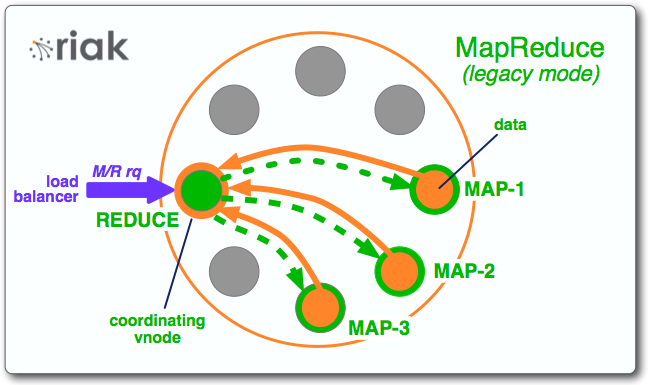
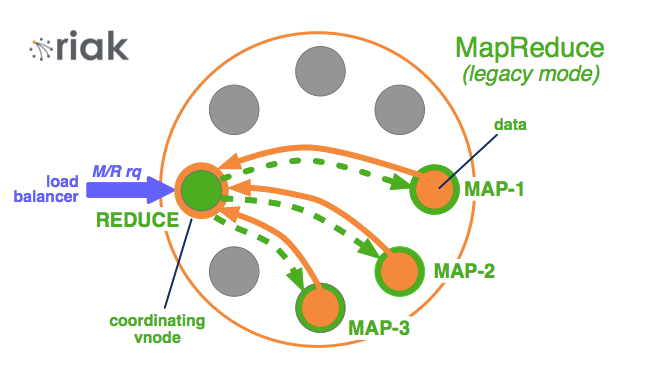
some layout tweaks, css, and cleaned images

diff --git a/source/css/common.css.scss b/source/css/common.css.scss
@@ -8,10 +8,11 @@ $textColor   : #515151;
 $linkBlue    : #2984a9;
 $orange      : #f99d33;
 $lightOrange : #fcc07f;
-   
+$darkOrange  : darken($orange, 15%);
 $subtleGray  : #eaeaea;
 $lightGreen  : #a7c7bf;
-$fadedGreen  : #6f8a86;
+$fadedGreen  : darken(saturate(#6f8a86, 3%), 8%);
+$darkGreen   : darken($lightGreen, 10%);
 
 /* =============================================================================
    Mixins
@@ -70,7 +71,7 @@ $fadedGreen  : #6f8a86;
 }
 
 .serif {
-  font-family : 'notica', serif;
+  font-family : 'noticia', serif;
   font-weight : normal;
 }
 
@@ -170,6 +171,65 @@ body {
 
 body {
   font-size : 90%;
+}
+
+ul {
+  list-style : square;
+  margin     : .5em 0
+}
+
+table {
+  @include boxShadow(0 1px 3px #999);
+  border : 5px solid #fff;
+}
+
+tr {
+  &:nth-child(even) {
+    background : #f1f1f1;
+  }
+  &:nth-child(odd) {
+    background : #dfdfdf;
+  }
+}
+
+th {
+  @include bgPattern('/images/layout/light-green-bg.jpg');
+  border-bottom : 1px solid $darkGreen;
+  text-align : left;
+  padding    : 5px 10px;
+  color      : $fadedGreen;
+}
+
+td {
+  padding        : 10px;
+  vertical-align : top;
+  border-right   : 1px solid #ccc;
+  
+  &:last-child {
+    border-right : 0;
+  }
+}
+
+pre {
+  margin : 0;
+}
+
+em {
+  @extend .serif-italic;
+  font-size : 95%;
+}
+
+blockquote {
+  @extend .serif-italic;
+  @include allCorners();
+  @include boxShadow(inset 0 2px 3px lighten($orange, 25%));
+  margin      : 2em 40px;
+  background  : lighten($orange, 30%);
+  border      : 1px solid lighten($orange, 15%);
+  padding     : 7px 15px;
+  font-style  : italic;
+  font-size   : 95%;
+  color       : $darkOrange;
 }
 
 #nav-container {
@@ -284,16 +344,8 @@ body {
       margin-top : 10px;
     }
   }
-  
-  .depth-1 .menu-toggle, .depth-2 .menu-toggle, .depth-3 .menu-toggle {
-    //margin-right : -33px;
-  }
 }
 
-ul {
-  list-style : square;
-  margin     : .5em 0
-}
 
 div[role="main"] {
   @extend .sans;
@@ -337,7 +389,9 @@ div[role="main"] {
   
   h2 {
     @extend .sans;
-    font-size : 200%;
+    font-size   : 200%;
+    line-height : 1.2;
+    padding     : .7em 0;
     
     a {
       color : $headerColor;
@@ -404,12 +458,12 @@ div[role="main"] {
         @include size(100%, auto);
         padding : 0 5px; 
         margin  : 0 0 1px 0;
-        border  : 1px solid darken($lightGreen, 10%);
+        border  : 1px solid $darkGreen;
         text-decoration : none;
         
         &:hover {
           background : $orange;
-          border     : 1px solid darken($orange, 15%);
+          border     : 1px solid $darkOrange;
           color      : #fff;
         }
         
@@ -428,9 +482,9 @@ div[role="main"] {
     #nav-toggle {
       @include size(30px, 38px);
       @include bgImage('/images/layout/nav-toggle-sprite.png');
-      position : absolute;
-      top      : 1em;
-      left     : -25px;     
+      position : fixed;
+      top      : 10.8em;
+      margin-left : -45px;     
     
       &.closed {
         background-position : left bottom;
@@ -440,7 +494,7 @@ div[role="main"] {
   
   section.right-sidebar {
     float      : right;
-    margin     : 10px 0 15px 15px;
+    margin     : 10px 0 15px 25px;
     text-align : center;
   }
   
@@ -688,12 +742,19 @@ div[role=main] {
     padding       : 0 25px;
   }
   
-  .docco {
+  table.docco {
+    @include boxShadow(none);
+    border : 0;
+    
     .code {
       @include allCorners(0px);
       @include boxShadow(none);
       border-left    : 1px solid #d8d9da;
       border-right   : 1px solid #d8d9da;
+    }
+    
+    tr {
+      background : none;
     }
 
     tr:first-child .code {
@@ -705,11 +766,11 @@ div[role=main] {
     tr:last-child .code {
       @include corner(left, bottom);
       @include corner(right, bottom);
-      border-bottom : 1px solid #f0f0f0;
+      border-bottom : 1px solid #d8d9da;
     }
     
     pre {
-      margin : 0;
+      margin-bottom : 15px;
     }
   }
 }
@@ -756,6 +817,17 @@ article {
   nav.tutorial {
     text-align : center;
     margin : 25px 0;
+    
+    .up a {
+      font-size : 90%;
+      text-decoration : none;
+      color : $linkBlue;
+      
+      &:hover {
+        color : $orange;
+      }
+    }
+    
     ul {
       padding    : 5px 5px 10px;
       border-top : 1px dashed silver;
@@ -798,29 +870,7 @@ code {
   border-radius: 4px;
 }
 
-/*
-.code {
-  pre {
-    overflow-x:auto;
-    border: 1px solid #A6ABB4;
-    padding:2px;
-    padding: 15px 10px;
-    background: #eee;
-    background-size: 100% 8px;
-    background-repeat: no-repeat;
-    background-position: 0 100%;
-    box-shadow: inset 0 -1px 0 white,0 0 1px rgba(156, 165, 181, 0.6),0 1px 1px rgba(156, 165, 181, 0.5);
-    border-radius: 4px;
-    color: #333;
 
-    code {
-      white-space:pre;
-      display:block;
-    }
-  }
-  // overflow-x: scroll;
-}
-*/
 
 ol.versions,
 ol.versions li {
@@ -835,7 +885,7 @@ ol.versions {
   
   li {
     @include bgPattern('/images/layout/light-green-bg.jpg');
-    border        : 1px solid darken($lightGreen, 10%);
+    border        : 1px solid $darkGreen;
     display       : inline-block;
     font-size     : 8pt;
     margin-right  : 1px;
@@ -843,7 +893,7 @@ ol.versions {
     
     &:hover {
       background : $orange;
-      border     : 1px solid darken($orange, 15%);
+      border     : 1px solid $darkOrange;
     }
     
     &:first-child {
@@ -858,7 +908,7 @@ ol.versions {
     
     &.current {
       background : $orange;
-      border     : 1px solid darken($orange, 15%);
+      border     : 1px solid $darkOrange;
       
       a {
         color : #fff;

diff --git a/source/js/all.js b/source/js/all.js
@@ -236,8 +236,7 @@
   $(document).on('click', (options.selectors.navContent + ' h3, ' + options.selectors.navContent + ' h4'), checkForToggler);
   
   
-
-
+  
 
   /*----------------------------------------------------------*/
   // Extra helpers
@@ -248,5 +247,9 @@
    */
   $(document).on('click', '.current a', function () {return false;});
   
+  /*
+   * Don't let people jack up tables
+   */
+  $('table, tr, th, td, tbody, thead, tfoot').removeAttr('style');
 
 });
